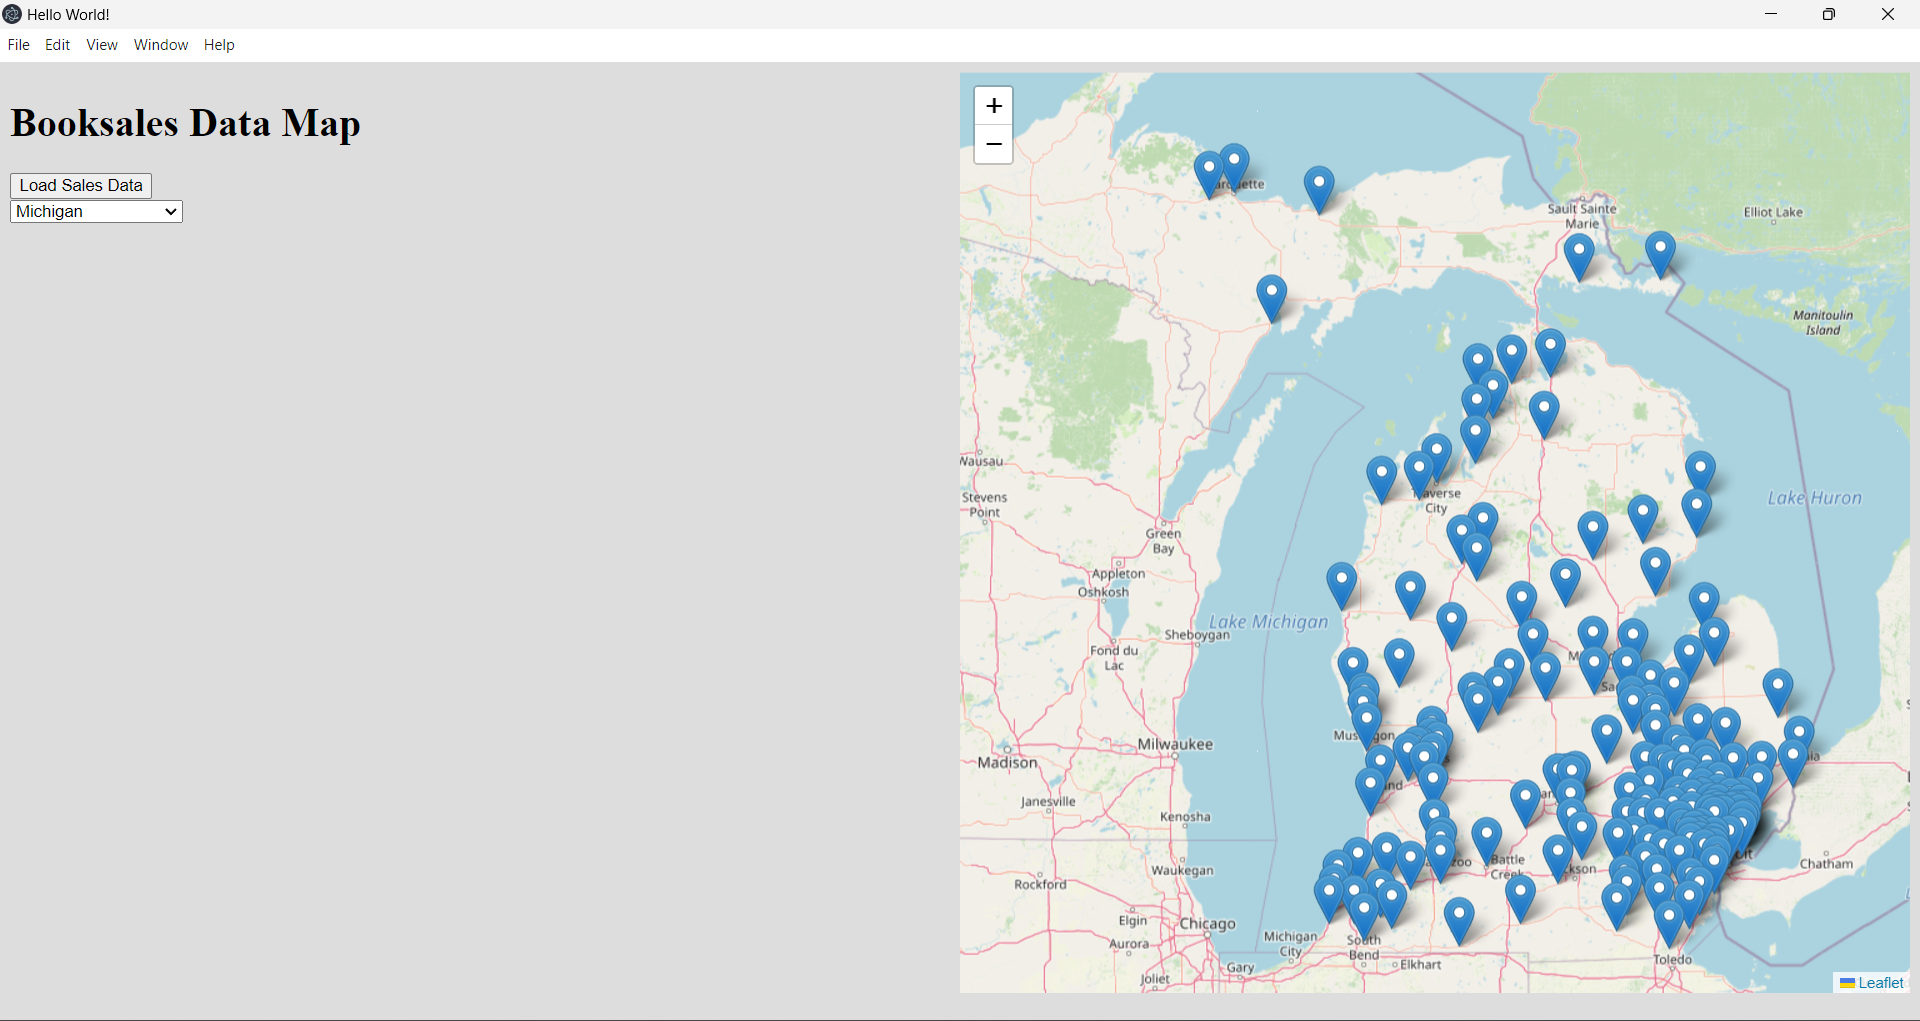
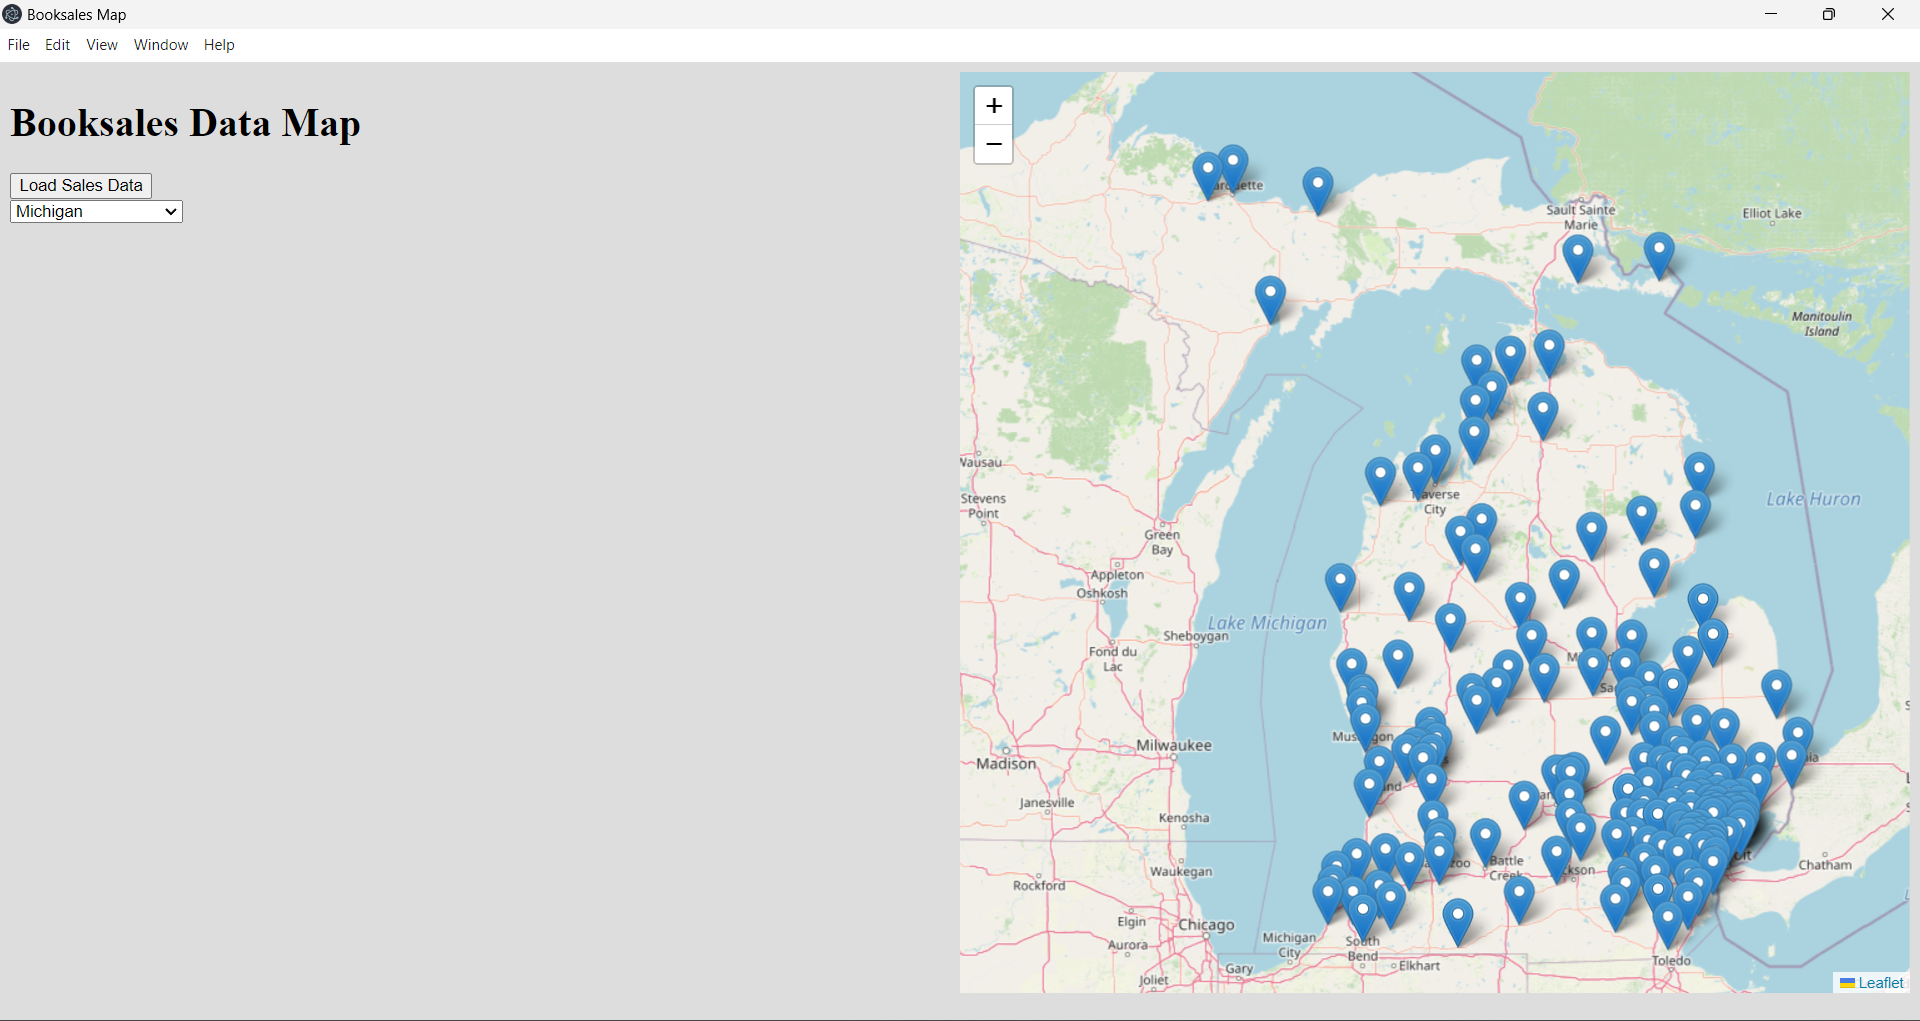
Updated app title

diff --git a/src/index.html b/src/index.html
@@ -2,7 +2,7 @@
 <html>
 <head>
   <meta charset="UTF-8">
-  <title>Hello World!</title>
+  <title>Booksales Map</title>
   <meta http-equiv="Content-Security-Policy" content="script-src 'self' https://unpkg.com https://cdn.jsdelivr.net 'unsafe-eval'; object-src 'self'" />
   <link rel="stylesheet" type="text/css" href="./styles.css">
   <link rel="stylesheet" href="https://unpkg.com/leaflet@1.9.4/dist/leaflet.css" integrity="sha256-p4NxAoJBhIIN+hmNHrzRCf9tD/miZyoHS5obTRR9BMY=" crossorigin=""/>
